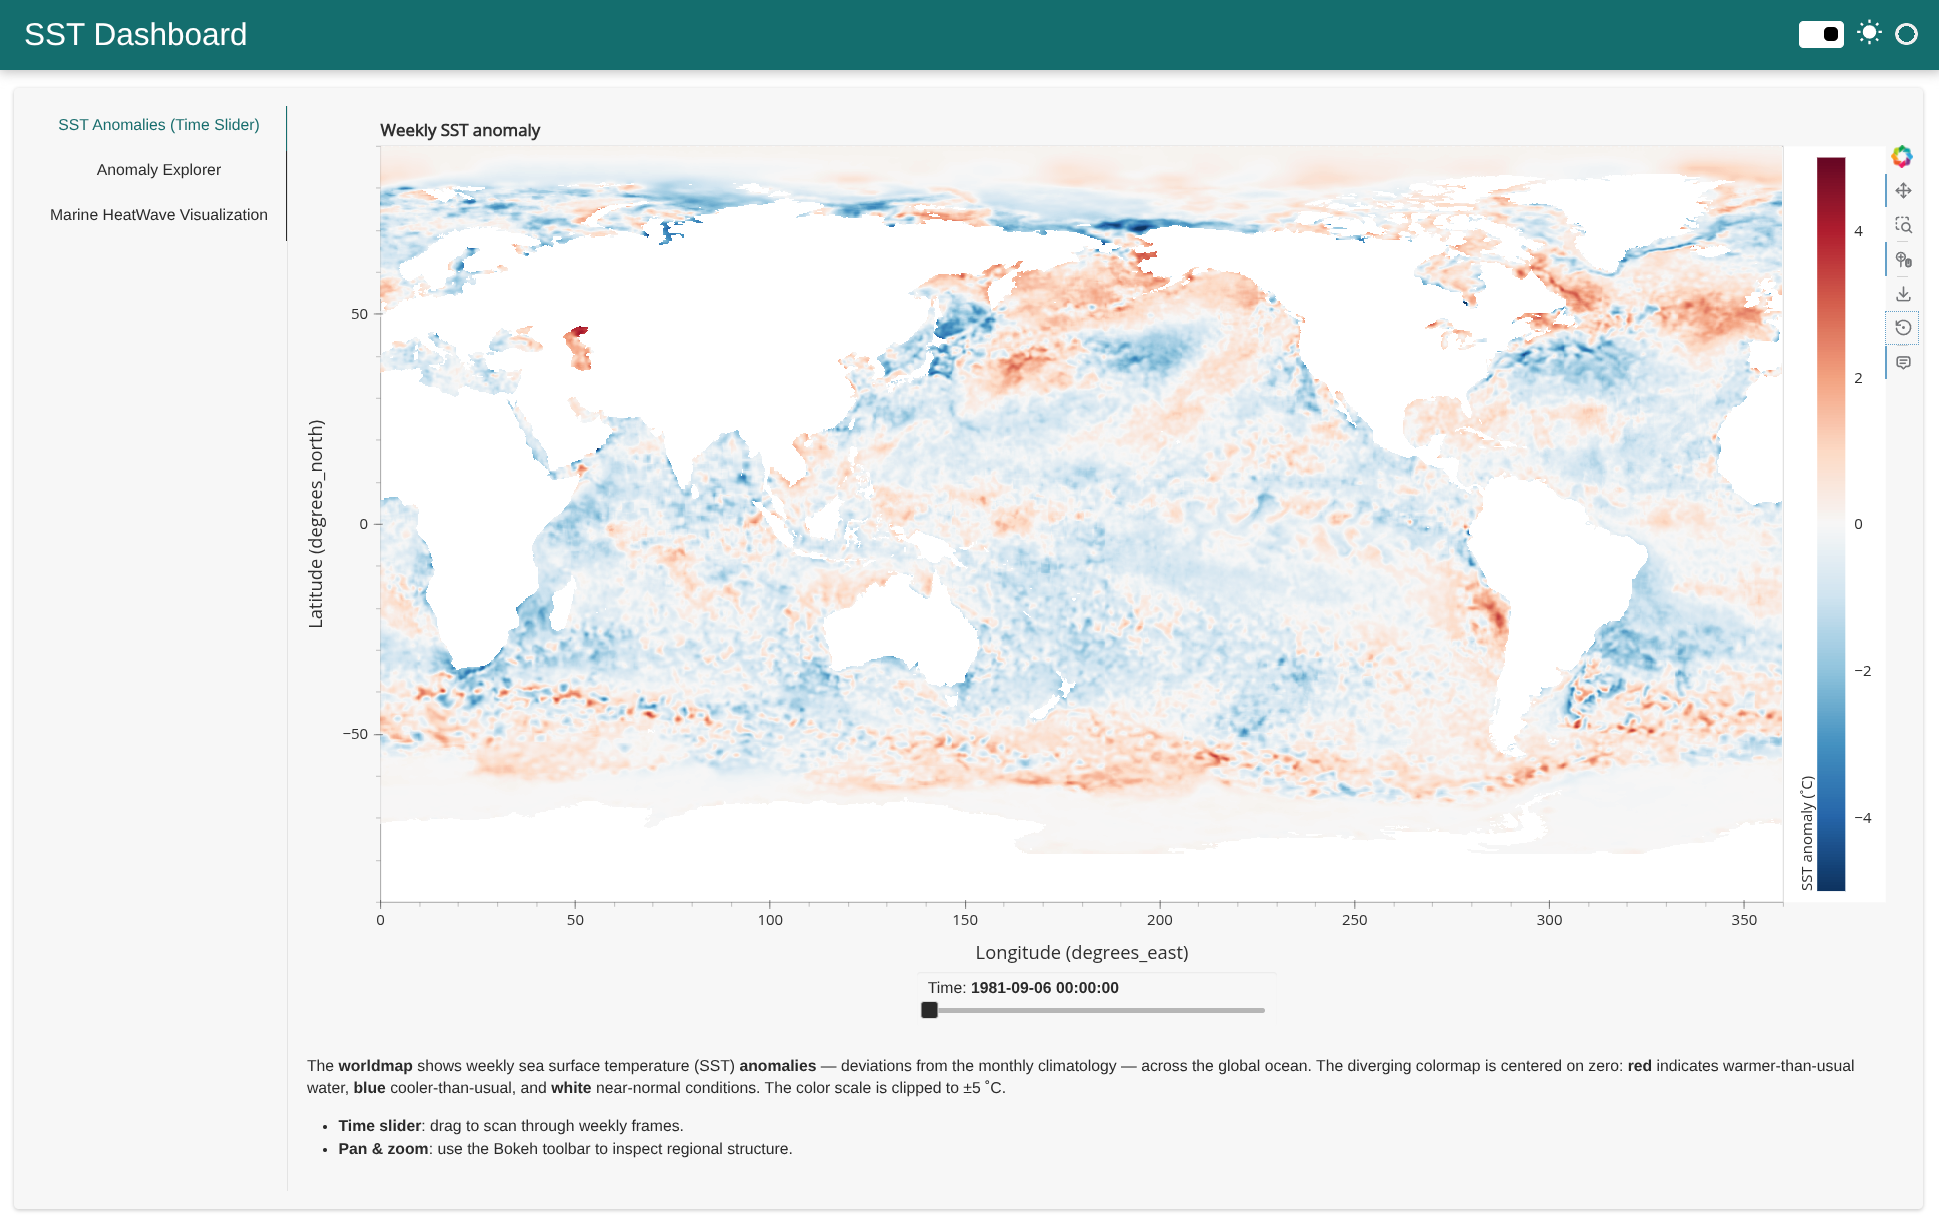
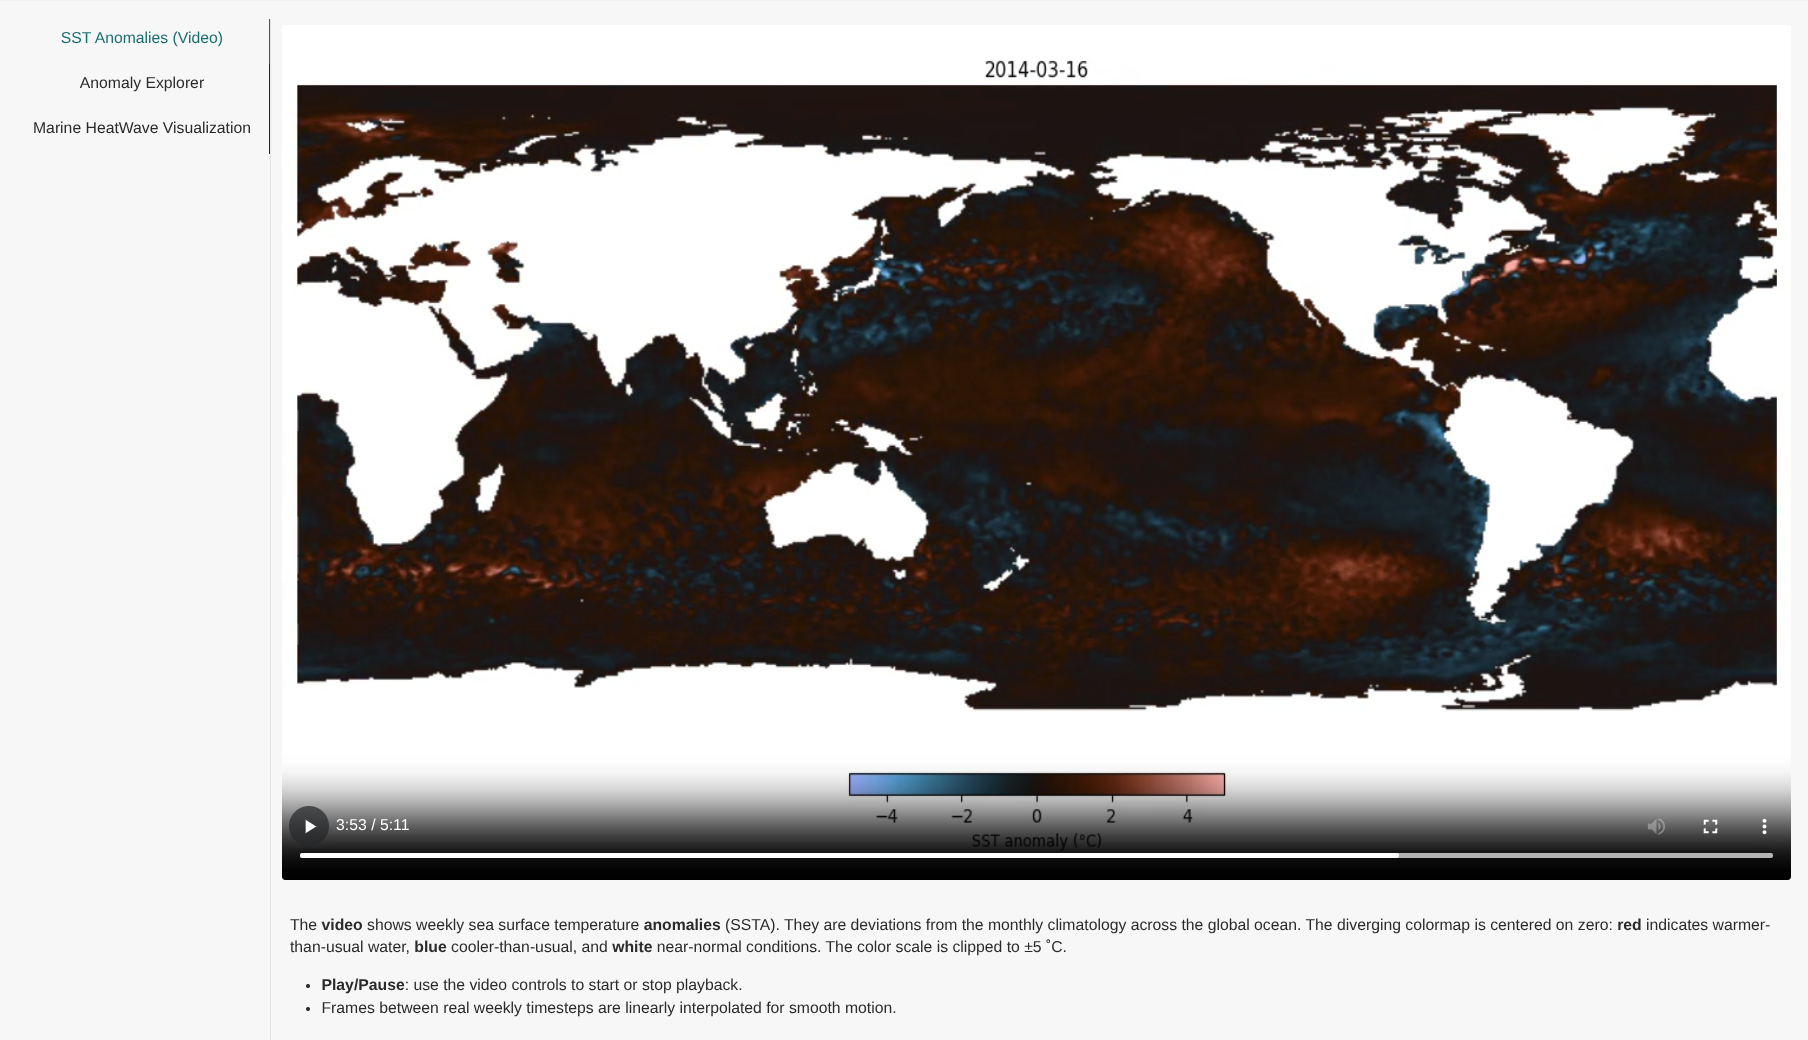
update and add images to Readme

diff --git a/README.md b/README.md
@@ -56,7 +56,9 @@ The dashboard has three tabs, each providing a different view of SST data.
 
 ### Tab 1 — SST Anomalies (Time Slider)
 
-A full-resolution weekly SST anomaly world map with a time slider. The diverging colormap (blue = cooler, red = warmer) is centered on zero and clipped to ±5 °C, making it easy to scan regional warming and cooling events through time.
+A video of the changes of SST anomalies in the world across time. The diverging colormap (blue = cooler, red = warmer) is centered on zero and clipped to ±5 °C, making it easy to scan regional warming and cooling events through time.
+
+<img src="assets/images/dashboard_timeserie.png">
 
 ### Tab 2 — Anomaly Explorer
 
@@ -82,6 +84,10 @@ Below an example of the Anomaly Explorer Tab
 - **Metric selector**: switch between *days per year* and *events per year*.
 - **Year slider**: pan through annual MHW maps to inspect spatial patterns.
 - **Click-to-inspect**: clicking the map plots a bar chart + KDE of the selected metric at that location across all available years.
+
+Below an example of the Marine HeatWave Tab
+
+<img src="assets/images/mhw_analysis.png">
 
 
 ## Training a model
